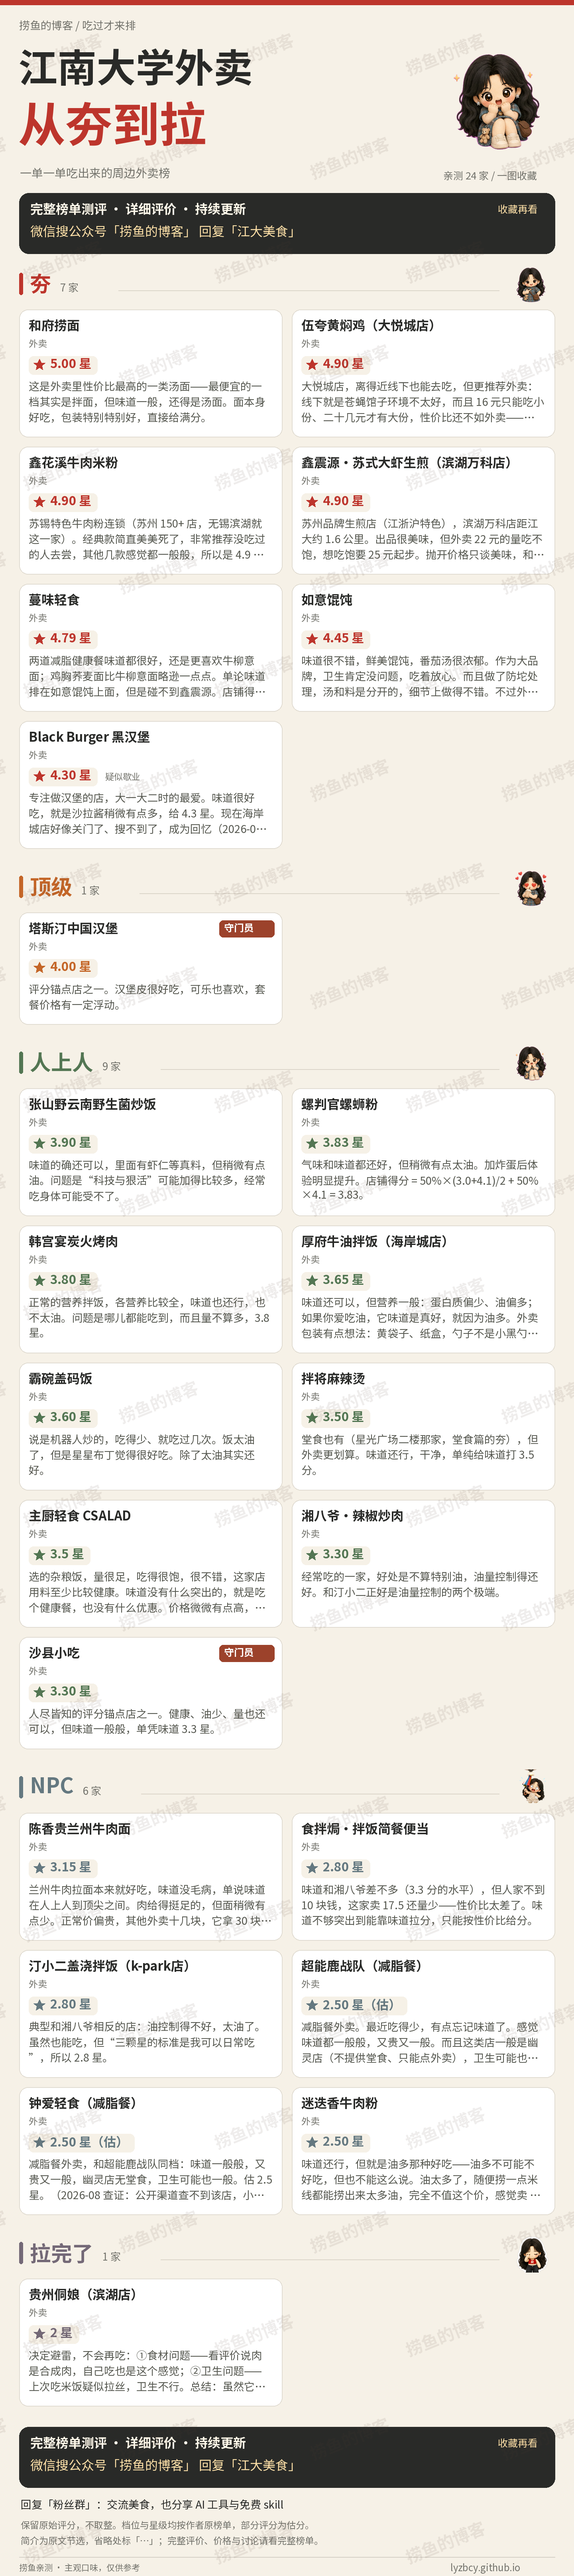
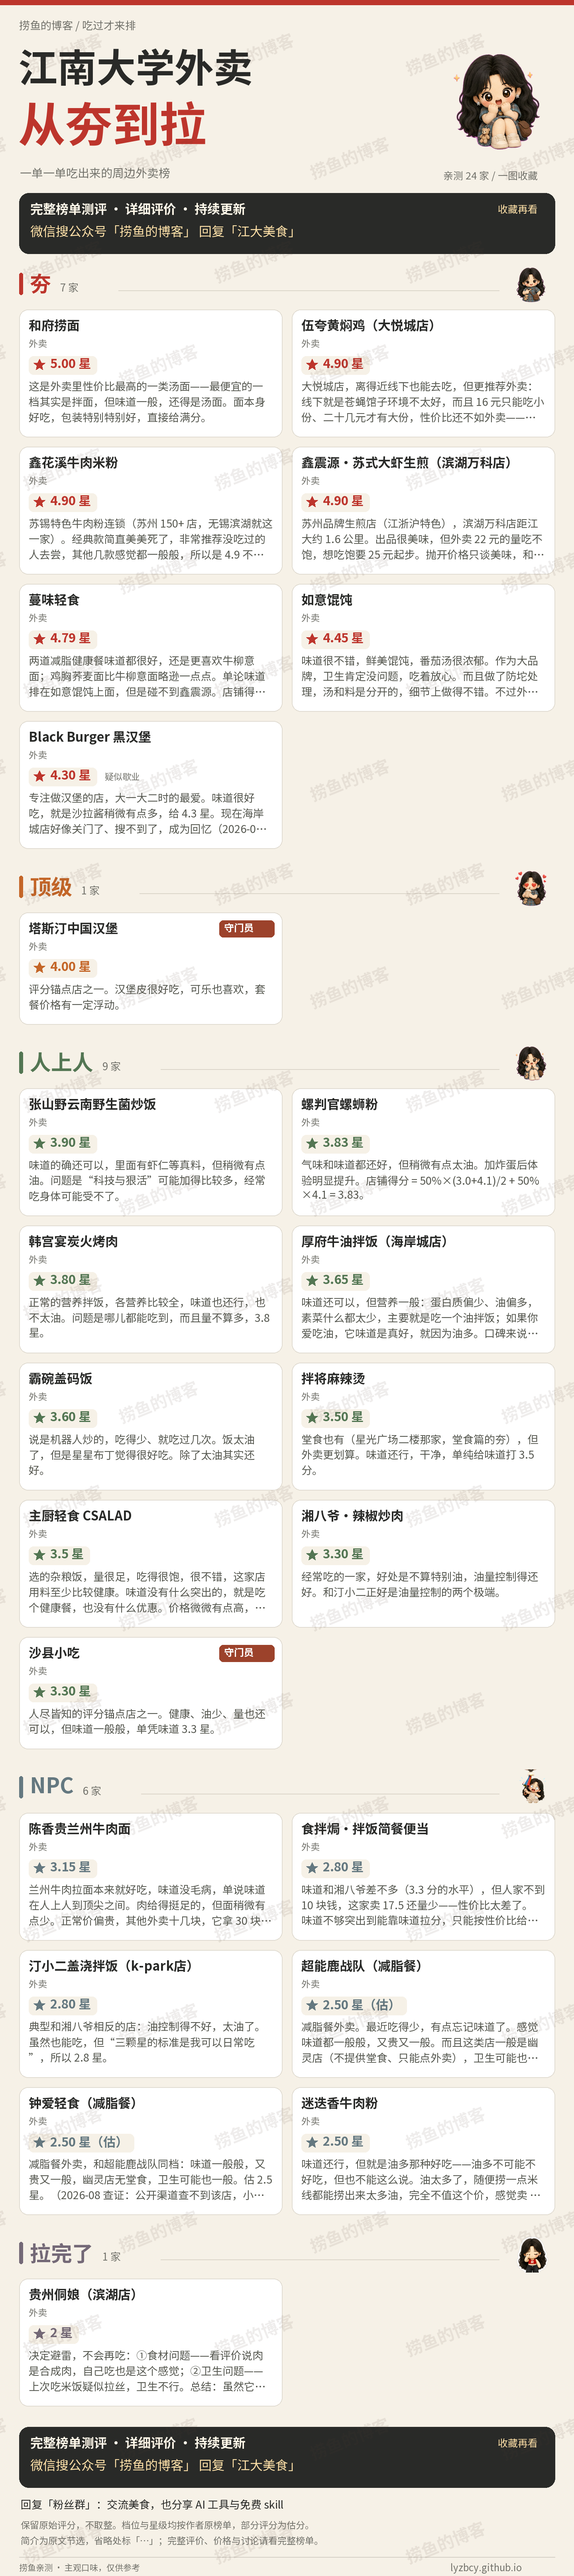
修复海报陈旧阻断看板发布，构建前按源重建海报

diff --git a/docs/ci.md b/docs/ci.md
@@ -4,6 +4,22 @@
 
 # 饮料榜新增条目的 CI 回归
 
+## 2026-10-16：陈旧海报阻断看板发布
+
+10 月 13 日修改外卖原始评价后未同步生成 PNG/audit，统一发布任务的
+`test_anchor_badges_match_source_and_audit` 检查发现输入哈希不一致。
+每日启动器统计快照仍正常提交，但整站构建连续失败，线上停留在 10 月 13 日。
+
+使用现有 `tools/generate_posters.py --all` 重新生成并校验，更新外卖海报及 audit；
+源评分、评价与统计 JSON 均不修改。发布任务安装固定依赖后先执行同一生成命令，
+再运行原有 20 项测试及 `--all --check`，确保发布产物来自当前源数据。
+真实数据格式、守门员评分、缺图或布局错误仍会失败，不删除或跳过校验。
+
+本地验证：原始提交 1 项报错；重建后 20 项全部通过，5 榜完整校验通过。
+线上是否完成以 GitHub 构建/Pages 成功及实际看板快照时间为准。
+
+## 2026-10-08：新增饮料条目
+
 运行 37569542726（147e6b3）和后续 37633761334 在海报单元测试失败：
 test_drink_anchors_keep_author_scores 写死 11 项，而作者新增黑魔爪后源数据已有 12 项。
 这是测试契约过时，不是作者评分或生成器错误。
